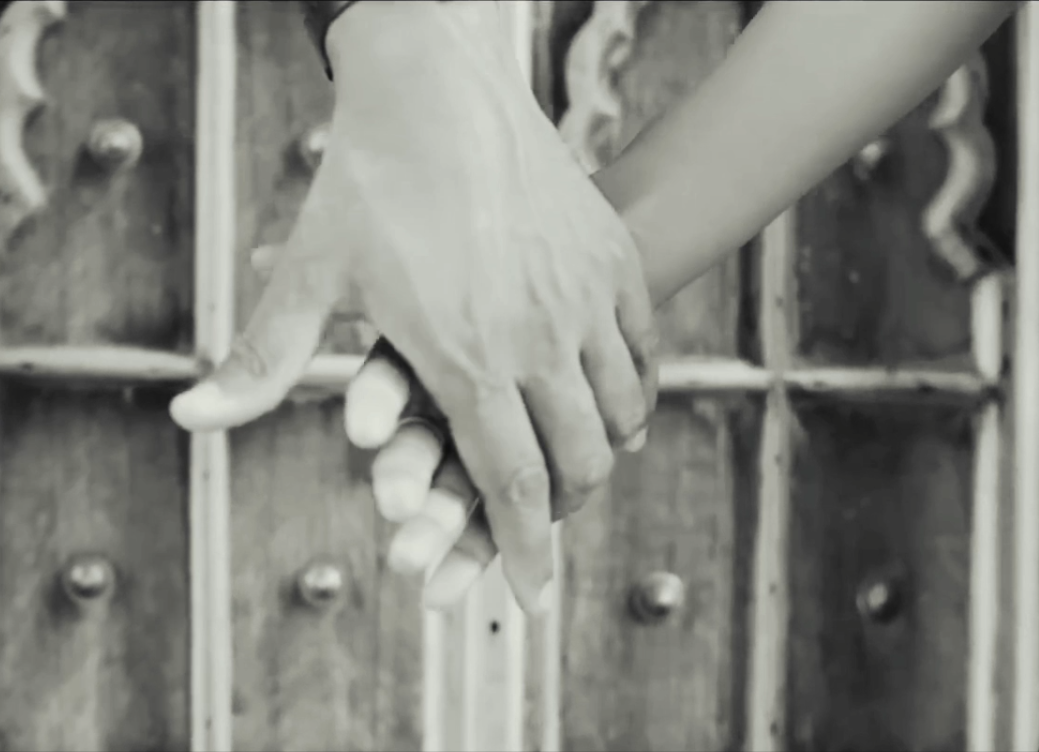
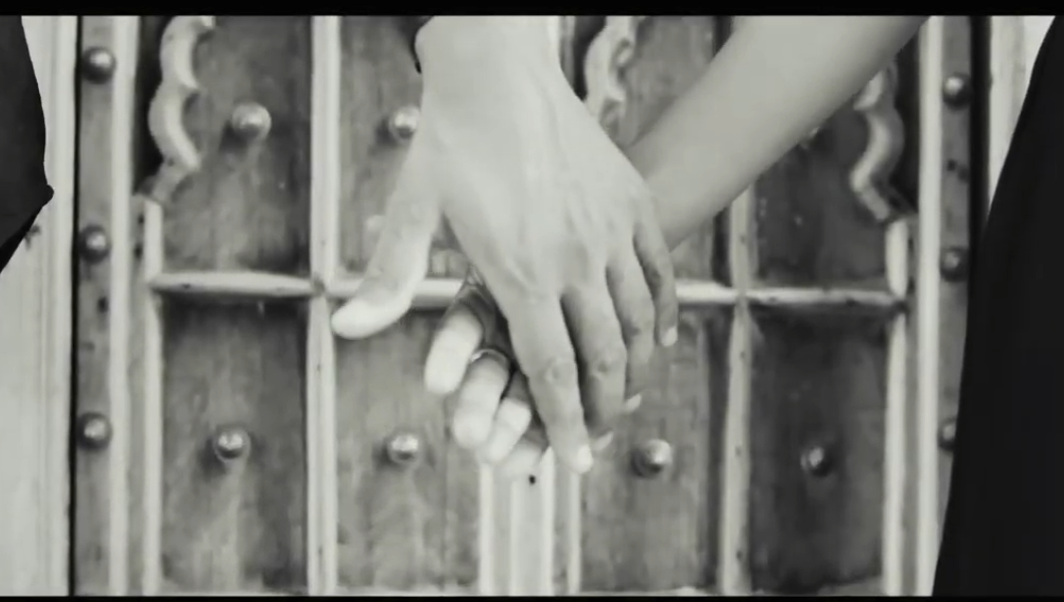
Uploaded one video

diff --git a/video_service.html b/video_service.html
@@ -1063,8 +1063,8 @@
                 </div>
                 <div class="col-md-4 mb-4">
                     <div class="video-container">
-                        <div class="video-thumbnail" data-video-src="https://drive.google.com/file/d/1fDN1xOAObL0scNwGmqVz5capb7lsEC0F/preview">
-                            <img src="images/diwali.png" alt="Diwali Greeting Video" class="thumbnail-image">
+                        <div class="video-thumbnail" data-video-src="https://drive.google.com/file/d/1T6t5uFxsdwHU5zGTtrjbJ1foDy9Z_fH0/preview">
+                            <img src="images/wedding2.png" alt="Marketing Animated Vegetables" class="thumbnail-image">
                             <div class="play-button">
                                 <i class="fas fa-play"></i>
                             </div>
@@ -1072,10 +1072,11 @@
                         <iframe class="video-iframe" width="100%" height="300" allow="autoplay" style="display: none;"></iframe>
                     </div>
                     <div class="portfolio-content">
-                        <h3>Traditional Festive Diwali Greeting video</h3>
-                        <p>Traditional Festive Diwali Greeting video to keep on Social Media.</p>
-                    </div>
+                        <h3>Wedding e-invite video</h3>
+                        <p>Wedding e-invite video made for client.</p>
+                    </div>  
                 </div>
+               
             </div>
         </div>
         
@@ -1095,6 +1096,22 @@
                     <div class="portfolio-content">
                         <h3>Marketing animated vegetables video</h3>
                         <p>Marketing video for grocery shop of animated vegetables.</p>
+                    </div>
+                </div>
+                
+                <div class="col-md-4 mb-4">
+                    <div class="video-container">
+                        <div class="video-thumbnail" data-video-src="https://drive.google.com/file/d/1fDN1xOAObL0scNwGmqVz5capb7lsEC0F/preview">
+                            <img src="images/diwali.png" alt="Diwali Greeting Video" class="thumbnail-image">
+                            <div class="play-button">
+                                <i class="fas fa-play"></i>
+                            </div>
+                        </div>
+                        <iframe class="video-iframe" width="100%" height="300" allow="autoplay" style="display: none;"></iframe>
+                    </div>
+                    <div class="portfolio-content">
+                        <h3>Traditional Festive Diwali Greeting video</h3>
+                        <p>Traditional Festive Diwali Greeting video to keep on Social Media.</p>
                     </div>
                 </div>
                 <!-- Additional video slots can be added here -->
